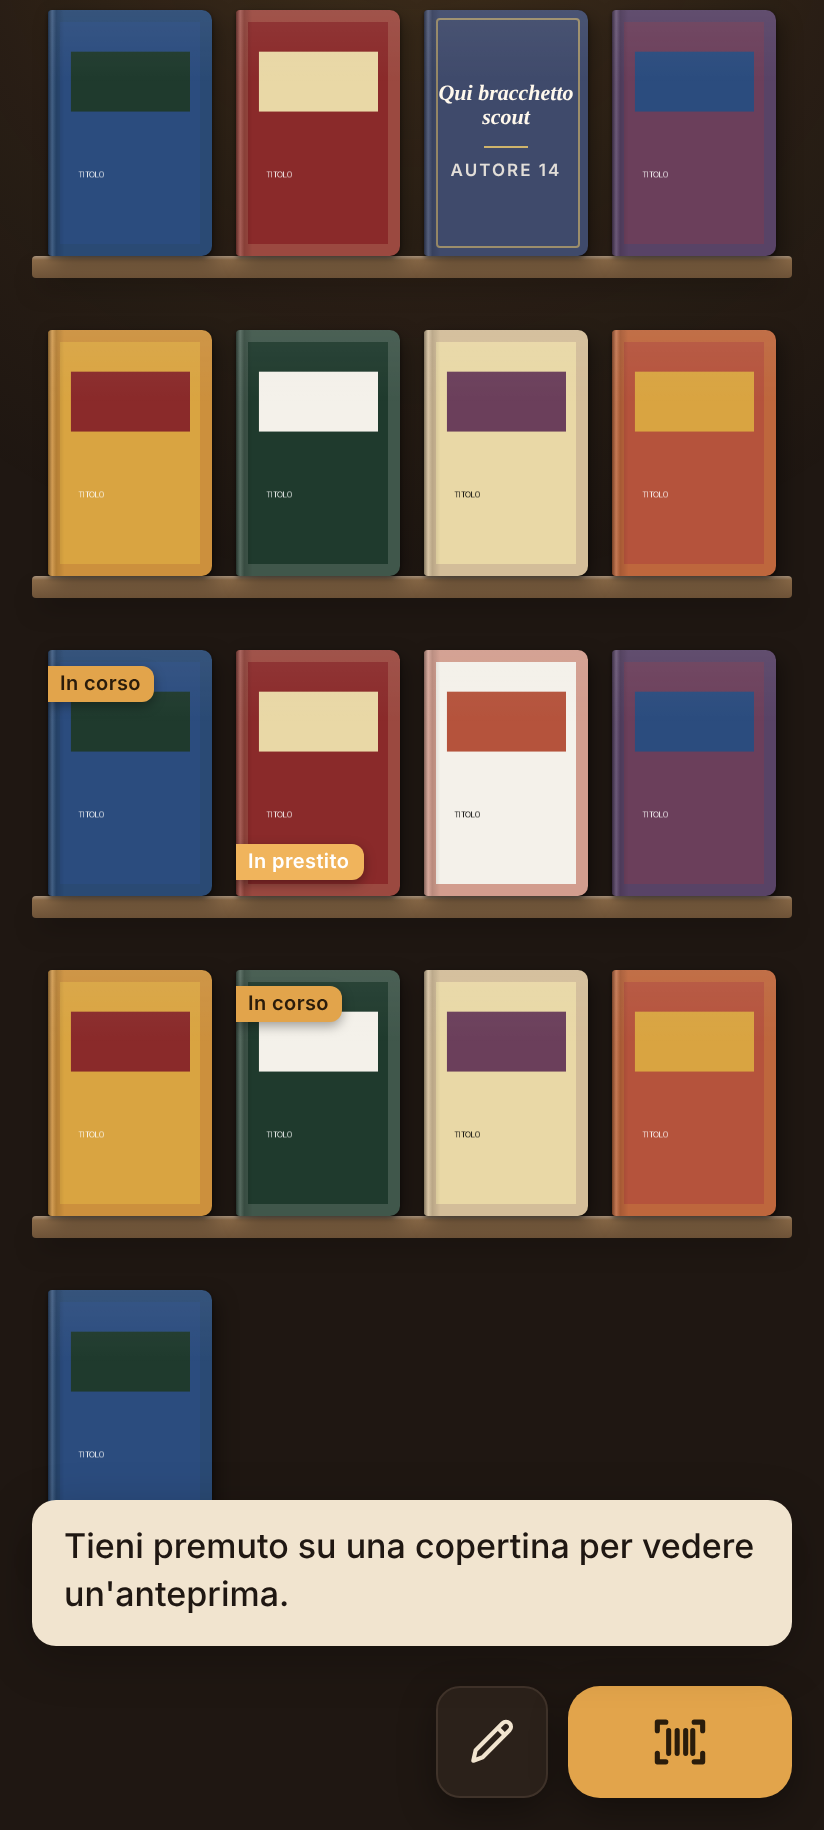
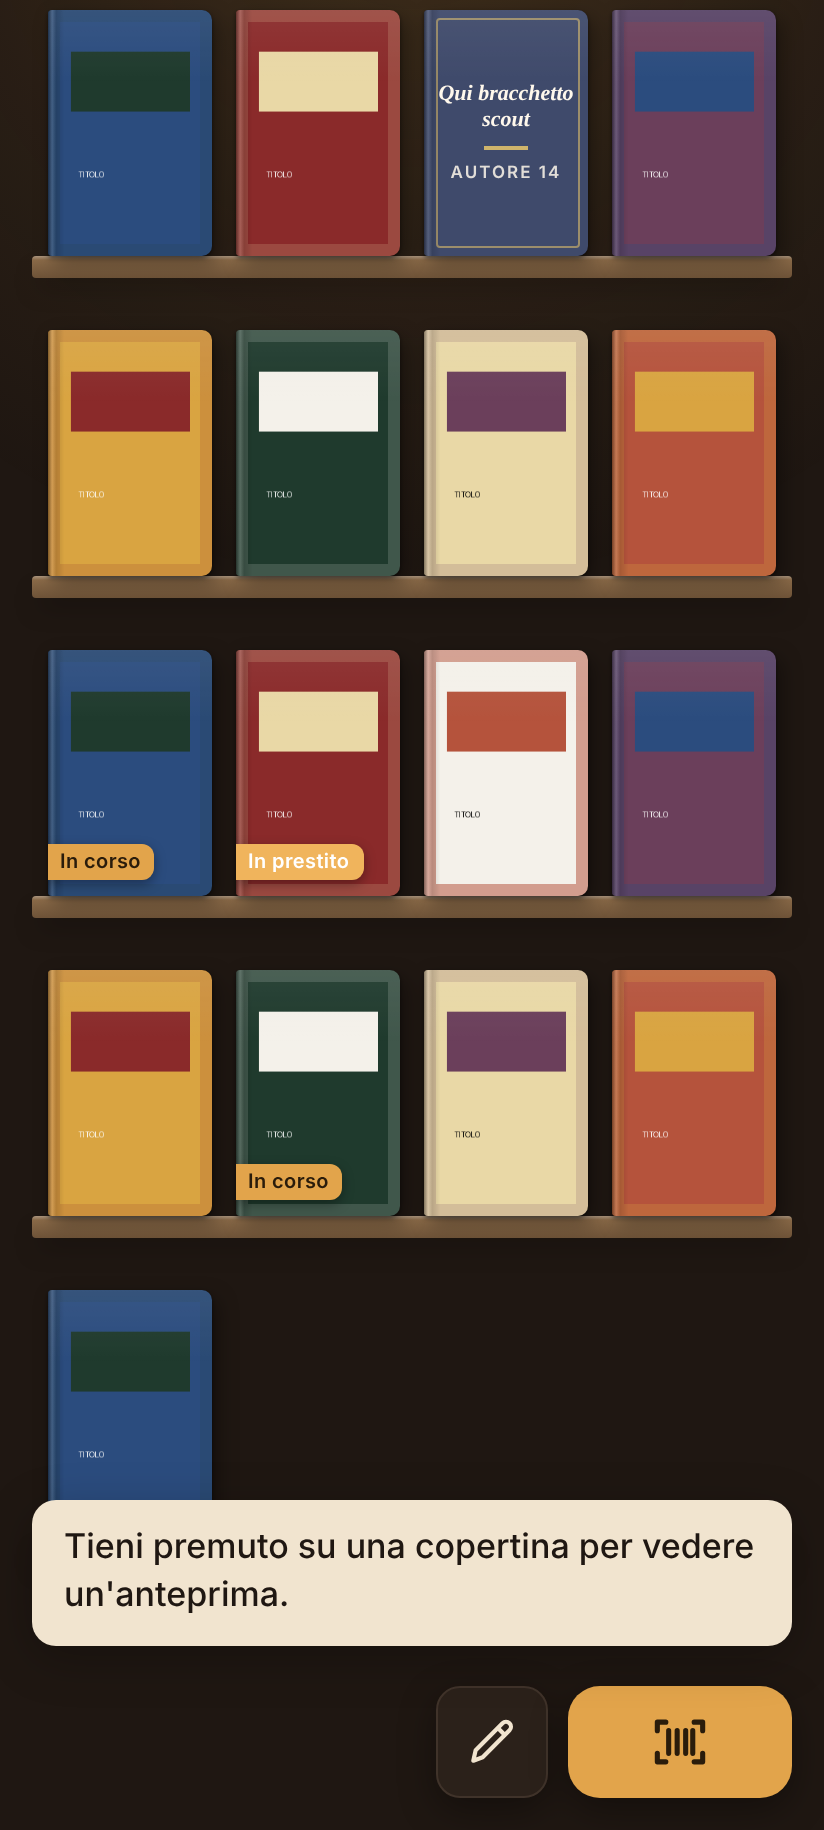
«In corso» in basso sulla copertina; Tutti i libri divisi per stanza, genere o persona come lo Scaffale (v46)
Claude-Session: https://claude.ai/code/session_01CGSbjp6uh4ipGwunJBTrLf

diff --git a/app.js b/app.js
@@ -20,7 +20,7 @@ const esc = (s) => String(s ?? '').replace(/[&<>"']/g, (c) => ({ '&': '&amp;', '
 
 /* Numero di versione: va aumentato a ogni modifica, qui e nei ?v= di index.html,
    così il telefono scarica i file nuovi invece di usare quelli in memoria. */
-const APP_VERSION = 45; // va tenuto uguale al numero in version.json
+const APP_VERSION = 46; // va tenuto uguale al numero in version.json
 
 const STORAGE_KEY = 'libreria.v1';
 const DEFAULT_GENRES = [
@@ -580,8 +580,8 @@ function groupBooks(books, by) {
   return [...groups].sort((a, b) => (a[0] === empty) - (b[0] === empty) || b[1].length - a[1].length || a[0].localeCompare(b[0], 'it'));
 }
 
-function shelvesHtml(books, wish, forced) {
-  const mode = forced || shelfSort;
+/* Le mensole dello Scaffale: per stanza, genere o persona. Le usa anche «Tutti i libri» in home. */
+function shelfGroups(books, mode, wish) {
   const empty = wish ? '' : mode === 'room' ? 'Senza posto' : mode === 'owner' ? 'Di casa' : 'Senza genere';
   const keysOf = (b) => {
     if (wish) return [b.list];
@@ -600,6 +600,12 @@ function shelvesHtml(books, wish, forced) {
     || total[base(b)] - total[base(a)]
     || base(a).localeCompare(base(b), 'it')
     || a.localeCompare(b, 'it', { numeric: true }));
+  return labels.map((label) => [label, groups.get(label), label === empty]);
+}
+
+function shelvesHtml(books, wish, forced) {
+  const groups = new Map(shelfGroups(books, forced || shelfSort, wish).map(([l, items]) => [l, items]));
+  const labels = [...groups.keys()];
   return labels.map((label) => `<section>
     <h3 class="shelf-label">${esc(label)} · ${groups.get(label).length}</h3>
     <div class="shelf-unit">
@@ -723,7 +729,23 @@ function homeSections(owned) {
     ['Da leggere', owned.filter((b) => b.status === 'toread').sort(byAdded), ''],
   ].filter(([, items, empty]) => items.length || empty);
 }
-let ALL_LABEL = '<h3 class="rail-label all-label">Tutti i libri</h3>';
+/* «Tutti i libri» diviso come lo Scaffale (stanza, genere o persona), con la scelta a destra del titolo.
+   Se il filtro attivo è già su quel criterio (es. una persona e «Persona»), si divide per il criterio successivo. */
+let homeOrder = null;
+function homeGroupsHtml(books, asGrid) {
+  const kinds = filterParts().map(filterKind);
+  const mode = [shelfSort, 'room', 'genre', 'owner'].find((m) => !kinds.includes(m === 'room' ? 'place' : m)) || 'genre';
+  const groups = shelfGroups(books, mode, false);
+  const only = groups.length === 1 && groups[0][2]; // tutti senza posto/genere/persona: niente divisione finta
+  const seen = new Set();
+  homeOrder = groups.flatMap(([, items]) => items).filter((b) => !seen.has(b.id) && seen.add(b.id));
+  const sw = ['room', 'genre', 'owner'].map((m) => `<button data-hsort="${m}" class="${m === mode ? 'on' : ''}" aria-pressed="${m === mode}">${{ room: 'Stanza', genre: 'Genere', owner: 'Persona' }[m]}</button>`).join('');
+  const head = `<div class="all-head"><h3 class="rail-label all-label">${filterGenre ? 'Tutti' : 'Tutti i libri'}<small>${books.length}</small></h3><div class="hsort" role="group" aria-label="Dividi per">${sw}</div></div>`;
+  const body = (items) => (asGrid ? shelfRowsHtml(items) : items.map((b) => bookRowHtml(b, `data-id="${esc(b.id)}"`)).join(''));
+  if (only) return head + body(books);
+  return head + groups.map(([label, items]) => `<section class="home-group"><p class="group-label">${esc(label)}<small>${items.length}</small></p>${body(items)}</section>`).join('');
+}
+const ALL_LABEL = '';
 function railsHtml(owned) {
   return homeSections(owned).map(([title, items, empty]) => `<section class="rail-sec">
     <h3 class="rail-label">${title}${items.length ? `<small>${items.length}</small>` : ''}</h3>
@@ -907,12 +929,15 @@ function renderList() {
       // Stesse sezioni anche filtrando per persona, genere, tema…: non se il filtro è già sullo stato di lettura.
       const sections = !wish && !audio && viewKind !== 'shelf' && !q && sort === 'recent' && !grouped
         && !filterParts().some((p) => p.startsWith('status:')) && (filterGenre ? homeSections(books).length > 0 : owned.length >= 6);
-      ALL_LABEL = `<h3 class="rail-label all-label">${filterGenre ? 'Tutti' : 'Tutti i libri'}${filterGenre ? `<small>${books.length}</small>` : ''}</h3>`;
       owned = filterGenre ? books : owned;
-      $('list').innerHTML = home ? (sections ? railsHtml(owned) : '') + shelfRowsHtml(books)
+      // «Tutti i libri» si divide come lo Scaffale quando si guarda la libreria nell'ordine normale.
+      const split = !wish && !audio && viewKind !== 'shelf' && !q && sort === 'recent' && !grouped;
+      homeOrder = null;
+      $('list').innerHTML = home ? (sections ? railsHtml(owned) : '') + (split ? homeGroupsHtml(books, true) : shelfRowsHtml(books))
         : viewKind === 'grid' ? books.map(gridCellHtml).join('')
         : viewKind === 'shelf' ? shelvesHtml(wish ? books : books.filter(hasPaper), wish, grouped ? (groupBy === 'owner' ? 'owner' : 'genre') : '')
-        : (sections ? listSectionsHtml(owned) : '') + books.map((b) => bookRowHtml(b, `data-id="${esc(b.id)}"`)).join('');
+        : (sections ? listSectionsHtml(owned) : '') + (split ? homeGroupsHtml(books, false) : books.map((b) => bookRowHtml(b, `data-id="${esc(b.id)}"`)).join(''));
+      if (homeOrder) books = homeOrder;
     }
   }
   // Nei desideri, senza ricerca né lista scelta, in cima c'è «Da scoprire».
@@ -2380,6 +2405,13 @@ function init() {
   });
   $('covers-sharpen').addEventListener('click', sharpenCovers);
   $('place-new').addEventListener('keydown', (e) => { if (e.key === 'Enter') addSettingsPlace(); });
+  $('list').addEventListener('click', (e) => {
+    const btn = e.target.closest('[data-hsort]');
+    if (!btn) return;
+    shelfSort = btn.dataset.hsort;
+    setPref('libreria.shelfSort', shelfSort);
+    renderList();
+  });
   $('shelf-sort').addEventListener('click', (e) => {
     const btn = e.target.closest('[data-sort]');
     if (!btn) return;

diff --git a/style.css b/style.css
@@ -668,3 +668,17 @@ body::before {
 .update-bar { position: fixed; left: 16px; right: 16px; top: calc(10px + env(safe-area-inset-top)); z-index: 60; max-width: 520px; margin: 0 auto; display: flex; align-items: center; justify-content: space-between; gap: 12px; padding: 10px 10px 10px 16px; border-radius: 14px; background: var(--surface); color: var(--ink); border: 1px solid var(--accent); box-shadow: 0 10px 30px rgba(0, 0, 0, .45); font-weight: 600; }
 .update-bar[hidden] { display: none; }
 .update-bar .btn { min-height: 40px; }
+
+/* v46: «In corso» in basso, per lasciare libero il titolo; Tutti i libri divisi come lo Scaffale */
+.cell-cover .badge { top: auto; bottom: 8px; }
+.cell-cover .badge.loan-badge { bottom: 8px; }
+.cell-cover .badge + .badge.loan-badge { bottom: 32px; }
+.z3 .cell-cover .badge { font-size: 8.5px; padding: 2px 5px 2px 4px; bottom: 5px; }
+.all-head { display: flex; align-items: center; justify-content: space-between; gap: 10px; margin: 4px 0 12px; }
+.all-head .all-label { margin: 0; }
+.hsort { display: flex; padding: 2px; gap: 2px; border-radius: 999px; border: 1px solid var(--line); background: var(--surface); flex: 0 0 auto; }
+.hsort button { min-height: 28px; padding: 0 10px; border: 0; border-radius: 999px; background: none; color: var(--muted); font: 600 12.5px/1 var(--font-body); cursor: pointer; }
+.hsort button.on { background: var(--accent); color: var(--accent-ink); }
+.group-label { display: flex; align-items: baseline; gap: 7px; margin: 6px 0 8px; font: italic 600 17px/1.2 var(--font-display); color: var(--ink); }
+.group-label small { font: 500 12.5px/1 var(--font-body); font-style: normal; color: var(--muted); }
+.home-group { margin-bottom: 8px; }

diff --git a/index.html b/index.html
@@ -8,15 +8,15 @@
 <script>document.documentElement.dataset.theme = 'night';</script>
 <meta name="apple-mobile-web-app-capable" content="yes">
 <meta name="apple-mobile-web-app-title" content="Libreria">
-<link rel="manifest" href="manifest.webmanifest?v=45">
-<link rel="icon" href="icons/icon.svg?v=45" type="image/svg+xml">
-<link rel="apple-touch-icon" href="icons/icon-180.png?v=45">
+<link rel="manifest" href="manifest.webmanifest?v=46">
+<link rel="icon" href="icons/icon.svg?v=46" type="image/svg+xml">
+<link rel="apple-touch-icon" href="icons/icon-180.png?v=46">
 <meta name="apple-mobile-web-app-status-bar-style" content="black-translucent">
 <meta name="mobile-web-app-capable" content="yes">
 <link rel="preconnect" href="https://fonts.googleapis.com">
 <link rel="preconnect" href="https://fonts.gstatic.com" crossorigin>
 <link href="https://fonts.googleapis.com/css2?family=Figtree:wght@400;500;600;700&family=Fraunces:opsz,wght@9..144,500;9..144,600&display=swap" rel="stylesheet">
-<link rel="stylesheet" href="style.css?v=45">
+<link rel="stylesheet" href="style.css?v=46">
 </head>
 <body>
 
@@ -472,7 +472,7 @@
 <div class="toast" id="toast" hidden role="status"></div>
 <div class="update-bar" id="update-bar" hidden role="status"><span>C'è una versione nuova dell'app</span><button class="btn primary" id="update-go">Aggiorna</button></div>
 
-<script src="vendor/zxing.min.js?v=45"></script>
-<script src="app.js?v=45"></script>
+<script src="vendor/zxing.min.js?v=46"></script>
+<script src="app.js?v=46"></script>
 </body>
 </html>
